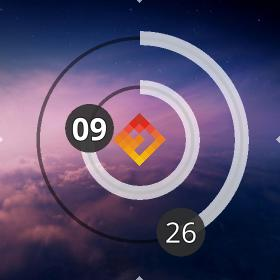
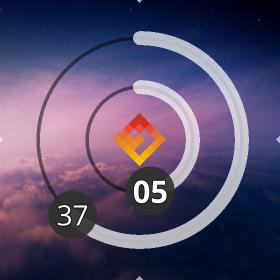
reworked analog-rings watchface and extended license info in readme

diff --git a/analog-rings/usr/share/asteroid-launcher/watchfaces/analog-rings.qml b/analog-rings/usr/share/asteroid-launcher/watchfaces/analog-rings.qml
@@ -45,6 +45,7 @@ Item {
             var ctx = getContext("2d")
             var rot = (wallClock.time.getMinutes() -15 )*6
             ctx.reset()
+            ctx.lineCap="round"
             ctx.beginPath()
             ctx.arc(parent.width/2, parent.height/2, width / 2.75, -90* radian, 450* radian, false);
             ctx.lineWidth = parent.width/80
@@ -94,6 +95,7 @@ Item {
             var ctx = getContext("2d")
             var rot = 0.5 * (60 * (wallClock.time.getHours()-3) + wallClock.time.getMinutes())
             ctx.reset()
+            ctx.lineCap="round"
             ctx.beginPath()
             ctx.arc(parent.width/2, parent.height/2, width / 5.3, 270* radian, 630* radian, false);
             ctx.lineWidth = parent.width/80

diff --git a/README.md b/README.md
@@ -35,8 +35,8 @@ Enable ADB USB mode in settings and push the usr folder to your root directory.
 | bold-hour-bebas - [BebasKai-Regular](bold-hour-bebas/usr/share/fonts/BebasKai-Regular.otf) | The font "BebasKai" is licensed under Open Font License and was created by [Dharma Type](http://www.dharmatype.com/). [license](bold-hour-bebas/usr/share/fonts/License.txt) |
 | contemporary-digital-rings - [Exo2-ExtraLight](contemporary-digital-rings/usr/share/fonts/Exo2-ExtraLight.otf), [Exo2-Regular](contemporary-digital-rings/usr/share/fonts/Exo2-Regular.otf) | The font [Exo2](https://fonts.google.com/specimen/Exo+2) is licensed under Open Font License and was created by [Natanael Gama](http://www.ndiscovered.com/). |
 | day-clock-24h - [Vollkorn-Regular](day-clock-24h/usr/share/fonts/Vollkorn-Regular.ttf) | The font "Vollkorn" is licensed under Open Font License and was created by [Friedrich Althausen](http://www.vollkorn-typeface.com). [license](day-clock-24h/usr/share/fonts/OFL.txt)|
-| greenium [Titillium](greenium/usr/share/fonts/Titillium-Bold.ttf) | The font "Titillium" is licensed under Open Font License and was created at the [Accademia di Belle Arti di Urbino](http://www.campivisivi.net/titillium/). [license](greenium/usr/share/fonts/OFL.txt)|
-| rainbow-uprising [Titillium](rainbow-uprising/usr/share/fonts/Titillium-Bold.ttf) | The font "Titillium" is licensed under Open Font License and was created at the [Accademia di Belle Arti di Urbino](http://www.campivisivi.net/titillium/). [license](greenium/usr/share/fonts/OFL.txt)|
+| greenium [Titillium-Bold](greenium/usr/share/fonts/Titillium-Bold.otf), [Titillium-Light](greenium/usr/share/fonts/Titillium-Light.otf) | The font "Titillium" is licensed under Open Font License and was created at the [Accademia di Belle Arti di Urbino](http://www.campivisivi.net/titillium/). [license](greenium/usr/share/fonts/OFL.txt)|
+| rainbow-uprising [Titillium-Bold](greenium/usr/share/fonts/Titillium-Bold.otf), [Titillium-Regular](rainbow-uprising/usr/share/fonts/Titillium-Regular.otf), [Titillium-Thin](rainbow-uprising/usr/share/fonts/Titillium-Thin.otf) | The font "Titillium" is licensed under Open Font License and was created at the [Accademia di Belle Arti di Urbino](http://www.campivisivi.net/titillium/). [license](greenium/usr/share/fonts/OFL.txt)|
 | sporty-round [SlimSans](sporty-round/usr/share/fonts/SlimSans.ttf) | The font "SlimSans" was created by [Manfred Klein](https://web.archive.org/web/20170823125251/http://manfred-klein.ina-mar.com). Manfred’s fonts are free for private and charity use. They are even free for commercial use – but if there’s any profit, pls make a donation to organizations like [Doctors Without Borders](http://www.doctorswithoutborders.org/)|
-| orbiting-asteroids - [Blue Marble](orbiting-asteroids/usr/share/asteroid-launcher/wallpapers/nasa-blue-marble.jpg) | The image "Blue Marble", Eastern Hemisphere March 2014. Photo from NASA Goddard Space Flight Center is available under creative commons license |
+| orbiting-asteroids - [Blue Marble](orbiting-asteroids/usr/share/asteroid-launcher/wallpapers/nasa-blue-marble.jpg) | The image "Blue Marble", Eastern Hemisphere March 2014, Photo from NASA Goddard Space Flight Center is available under creative commons license |
 
